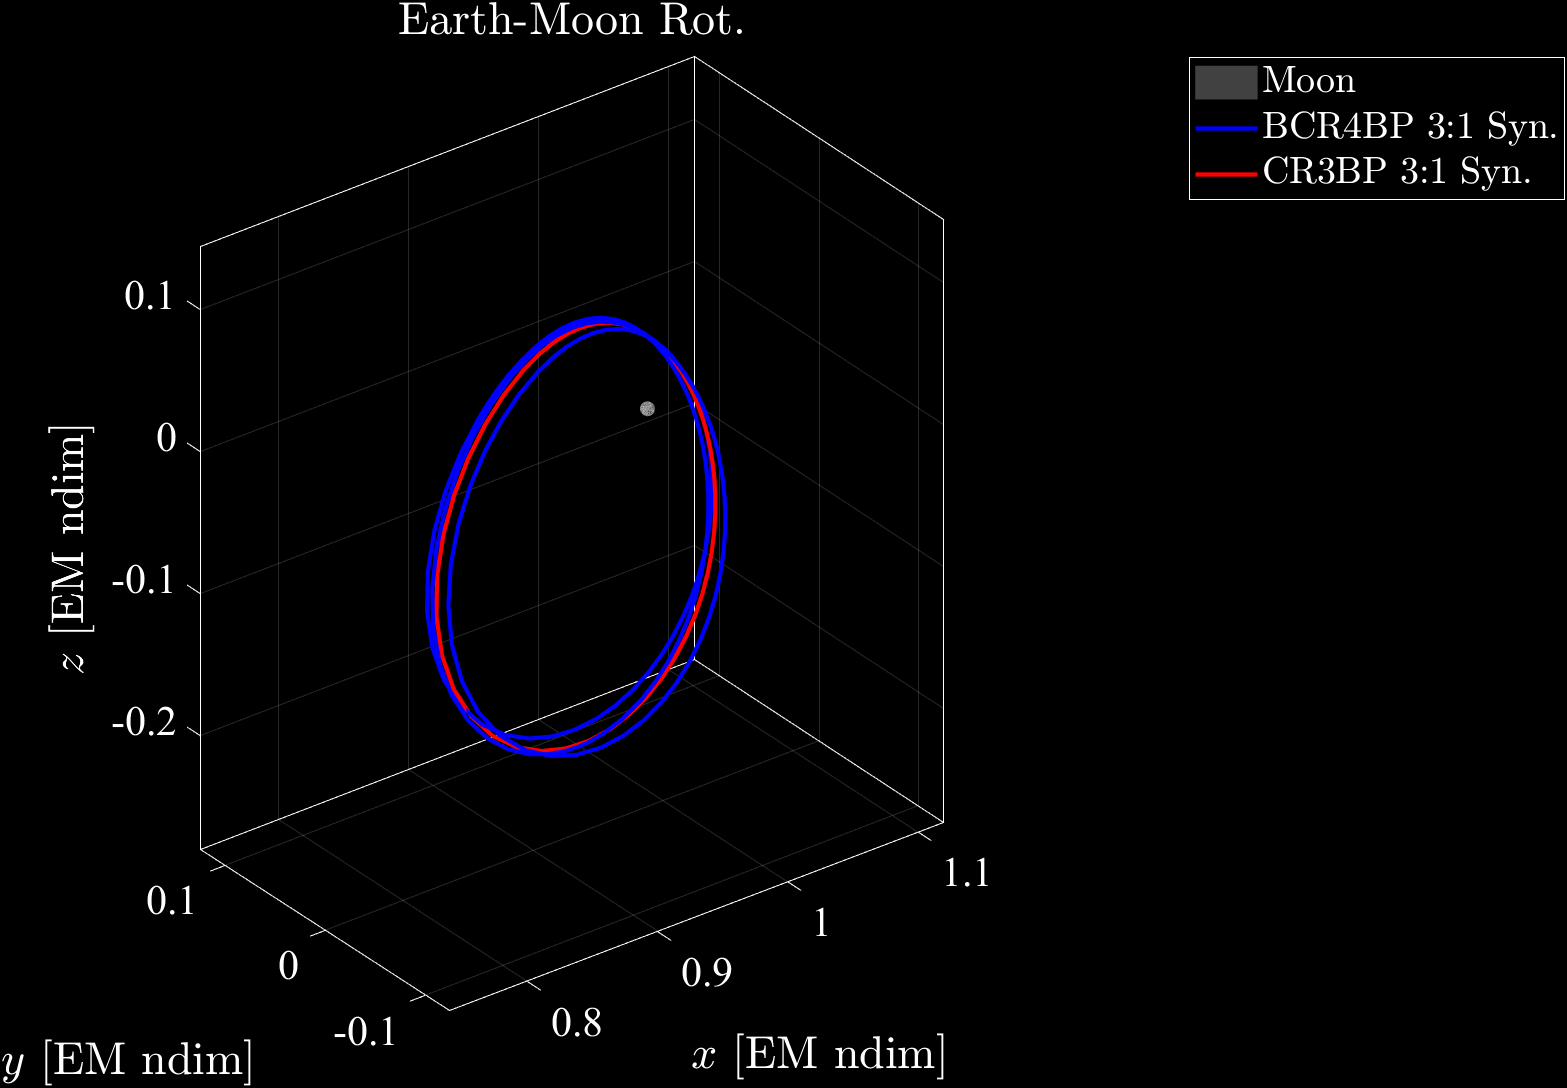
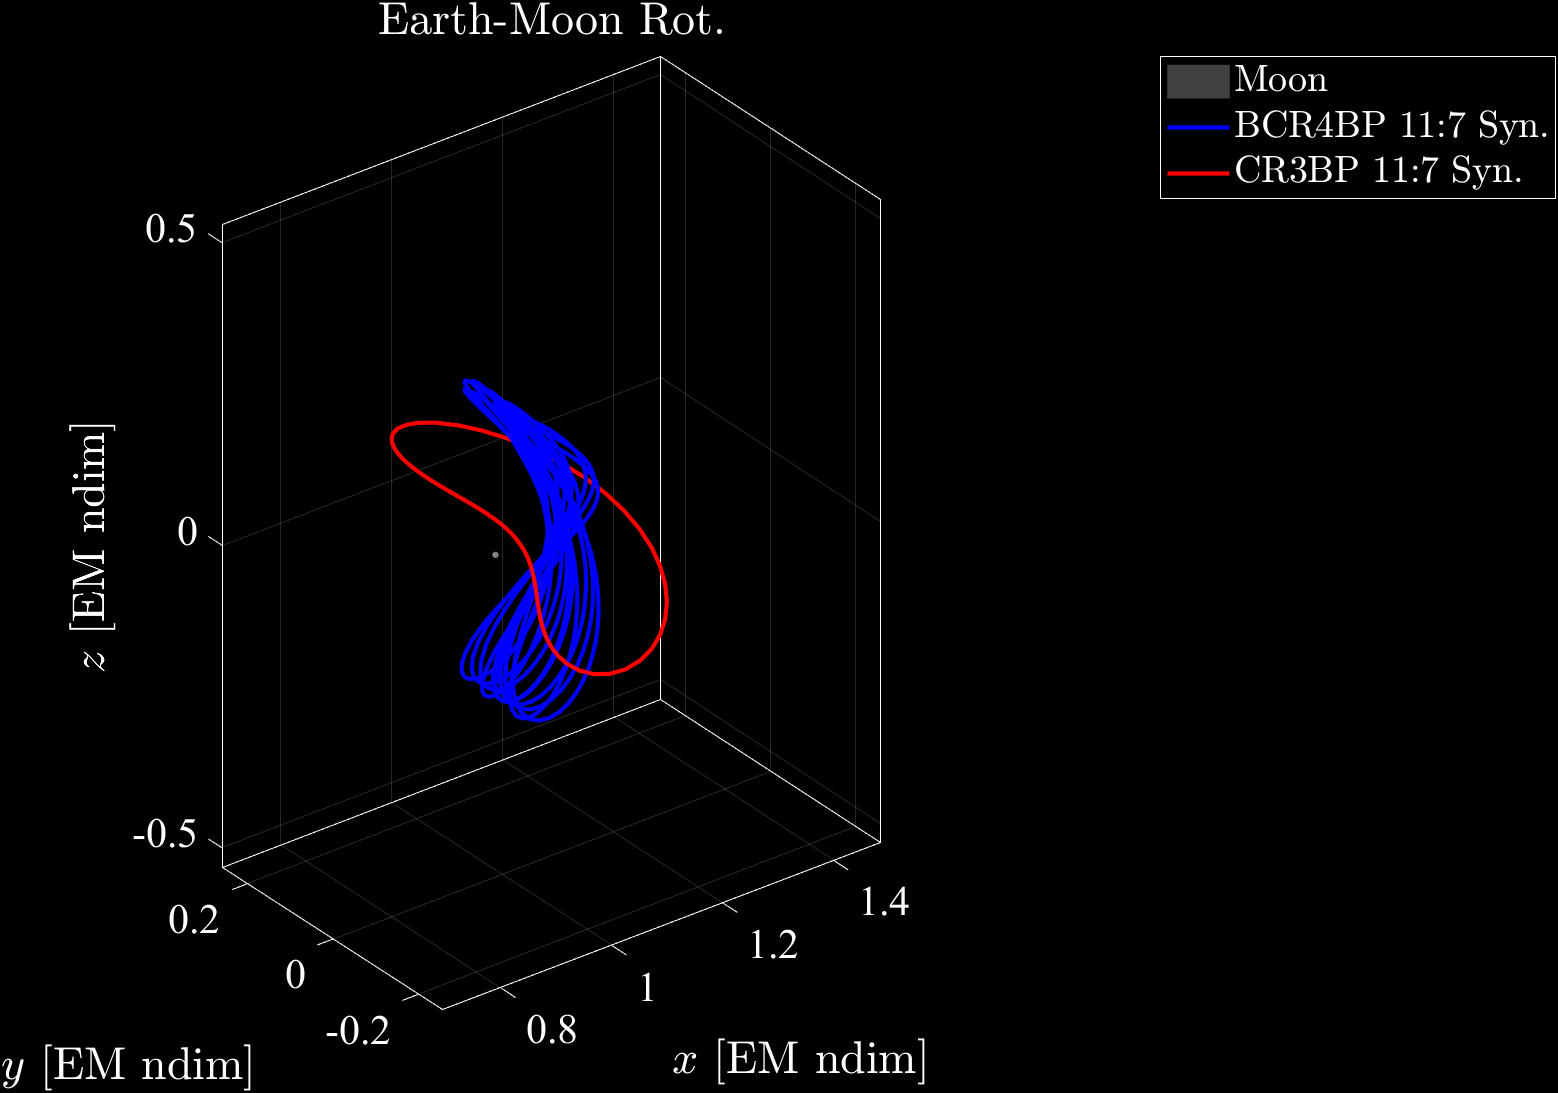
Making presentation

diff --git a/EMSpatialOrbit.m b/EMSpatialOrbit.m
@@ -40,8 +40,8 @@ hold on
 % set(Earth, 'DisplayName', "Earth")
 Moon = plot3DBody("Moon", Rm/lstar, [1-mu, 0, 0]);
 set(Moon, 'DisplayName', "Moon")
-plot3(BCR4BPOrbit.x, BCR4BPOrbit.y, BCR4BPOrbit.z, 'b', 'DisplayName', "BCR4BP 3:1 Syn.")
-plot3(CR3BPCompOrbit.x, CR3BPCompOrbit.y, CR3BPCompOrbit.z, 'r', 'DisplayName', "CR3BP 3:1 Syn.")
+plot3(BCR4BPOrbit.x, BCR4BPOrbit.y, BCR4BPOrbit.z, 'b', 'DisplayName', "BCR4BP 11:7 Syn.")
+plot3(CR3BPCompOrbit.x, CR3BPCompOrbit.y, CR3BPCompOrbit.z, 'r', 'DisplayName', "CR3BP 11:7 Syn.")
 axis equal
 % axis
 % axis([-0.16 1.88 -0.67 0.67])
@@ -66,7 +66,7 @@ Moontheta = 0:(pi/180):2*pi;
 Moonx = lstar.*cos(Moontheta);
 Moony = lstar.*sin(Moontheta);
 plot3(1-muSB1+Moonx./lstarSB1, Moony./lstarSB1, zeros(1, length(Moontheta)), 'w:', 'DisplayName', "Moon Orbit")
-plot3(BCR4BPSB1Orbit.x, BCR4BPSB1Orbit.y, BCR4BPSB1Orbit.z, 'b', 'DisplayName', "BCR4BP 3:1 Syn.")
+plot3(BCR4BPSB1Orbit.x, BCR4BPSB1Orbit.y, BCR4BPSB1Orbit.z, 'b', 'DisplayName', "BCR4BP 11:7 Syn.")
 axis equal
 % axis
 % axis([-0.16 1.88 -0.67 0.67])
